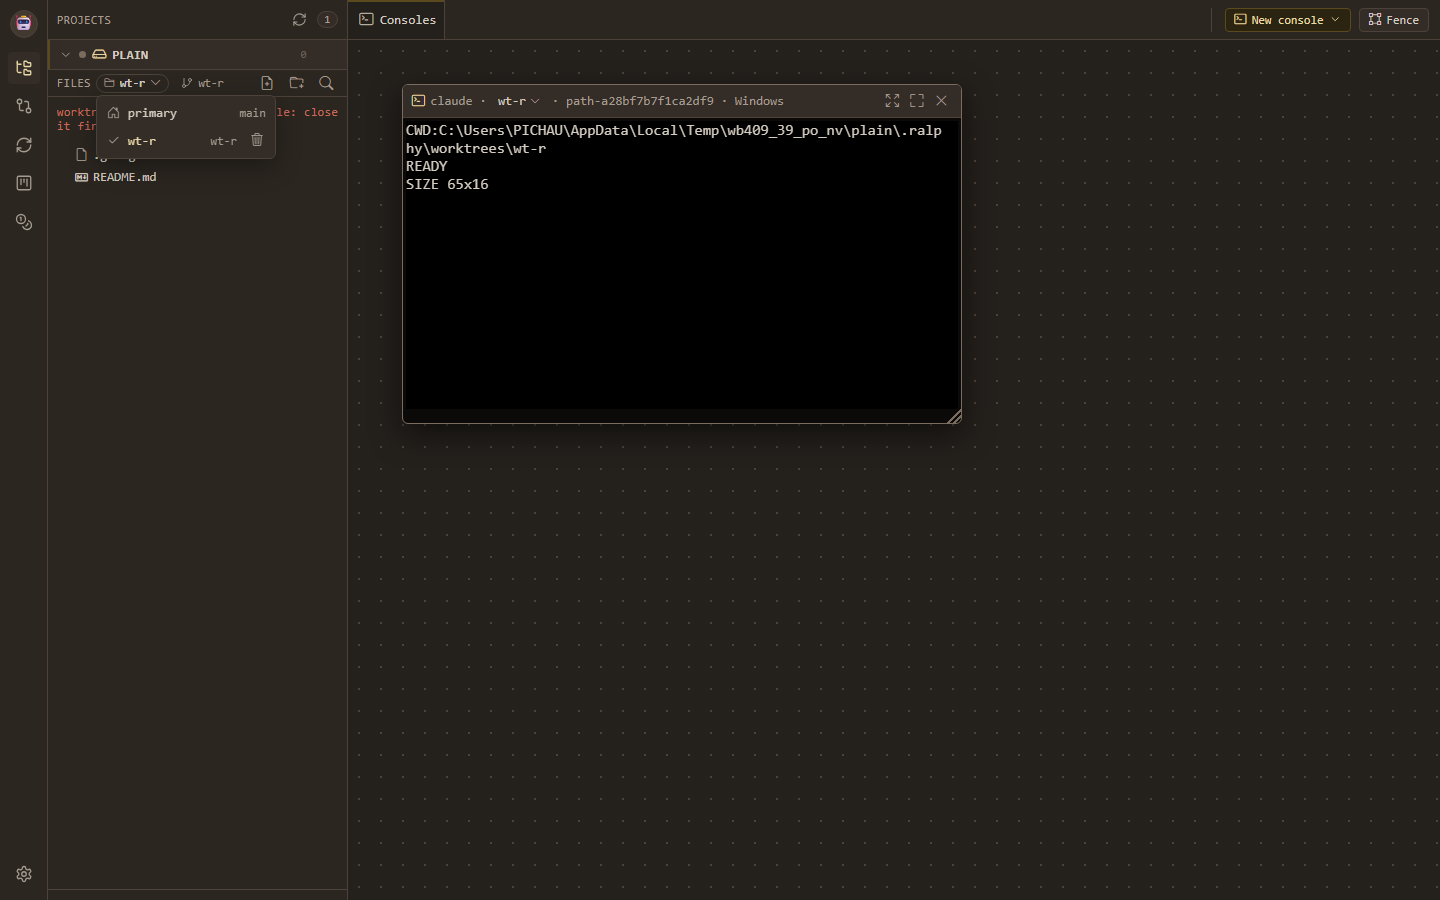
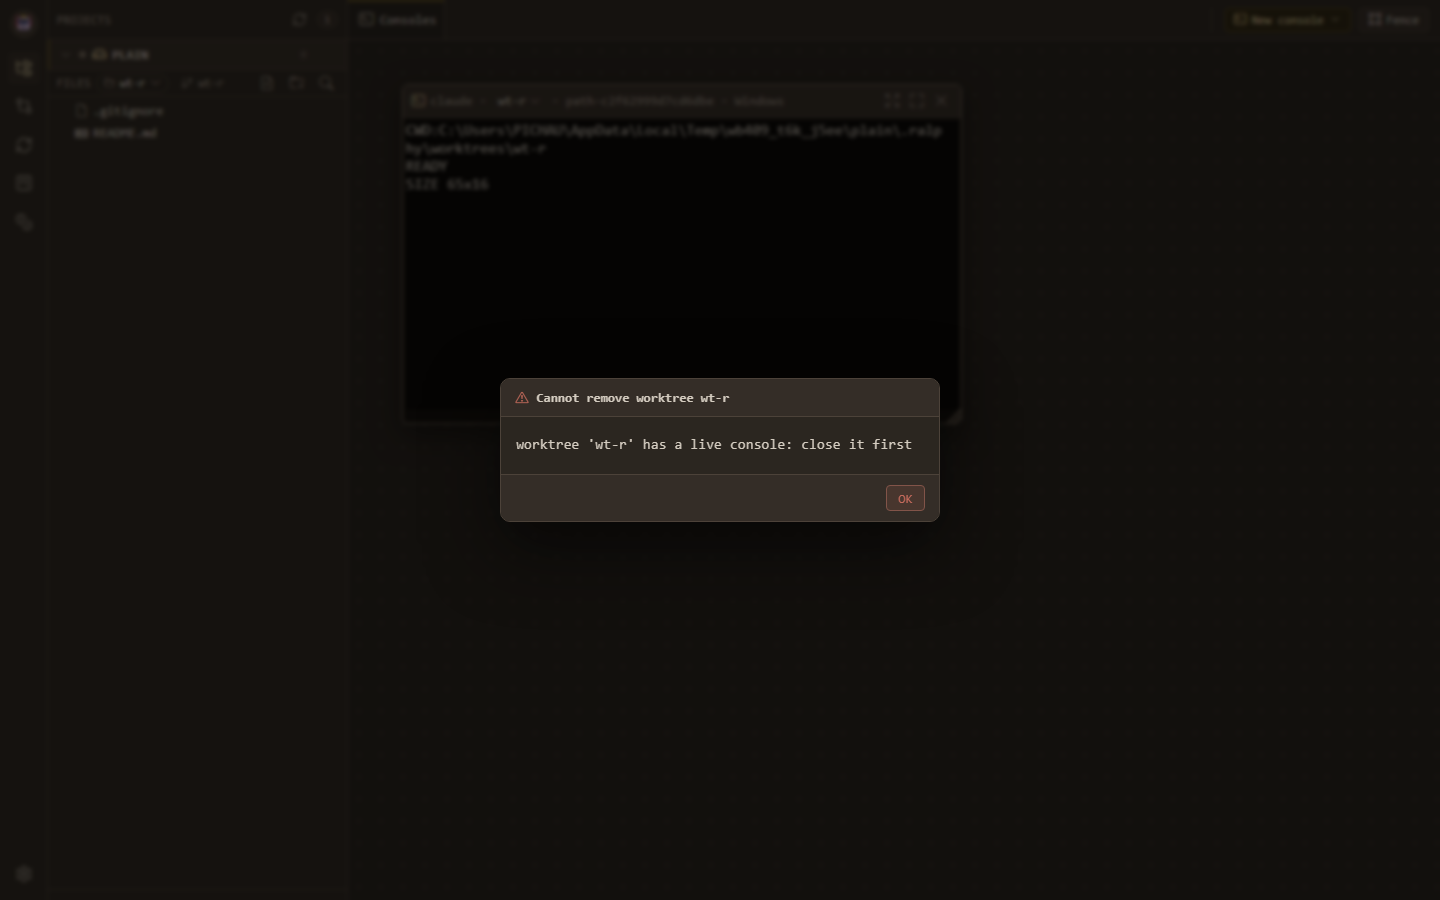
fix(workbench): a refused worktree remove is a one-button notice, not a line under the chip
The trash lives in a menu that has already closed by the time the daemon
answers; an inline refusal under the Files chip belonged to nothing and had
no way to be dismissed. `WBConsole.askNotice` (askConfirm's one-button
form: OK, focused) carries the verb's message verbatim; branch acts keep
their inline line, which sits under a modal still open (#199).

diff --git a/crates/ralphy-daemon/assets/ui/wb-console.js b/crates/ralphy-daemon/assets/ui/wb-console.js
@@ -86,7 +86,9 @@ window.WBConsole = (function () {
   // candidate and is worse than either: it blocks the thread, and an automated
   // browser dismisses it by default, which would silently turn every guarded
   // click into a cancelled one.
-  function askConfirm({ title, message, confirmLabel = "Confirm", danger = false }) {
+  // `notice: true` is the one-button form — a refusal to acknowledge, not a
+  // choice to make: OK alone, focused, and Enter/Escape both dismiss.
+  function askConfirm({ title, message, confirmLabel = "Confirm", danger = false, notice = false }) {
     const scrim = document.createElement("div");
     scrim.className = "modal-scrim wb-confirm";
     const modal = document.createElement("div");
@@ -116,14 +118,17 @@ window.WBConsole = (function () {
     go.className = danger ? "btn danger" : "btn accent";
     go.type = "button";
     go.textContent = confirmLabel;
-    foot.append(cancel, go);
+    if (notice) foot.append(go);
+    else foot.append(cancel, go);
     modal.append(head, body, foot);
     scrim.append(modal);
     document.body.append(scrim);
     // CANCEL is what the keyboard lands on. The dialog exists because a click
     // went somewhere it did not mean to; opening it with the destructive button
-    // under a stray Enter would reproduce the defect one keystroke later.
-    cancel.focus();
+    // under a stray Enter would reproduce the defect one keystroke later. A
+    // notice has nothing to protect: OK takes the focus.
+    if (notice) go.focus();
+    else cancel.focus();
 
     return new Promise((resolve) => {
       let settled = false;
@@ -152,6 +157,11 @@ window.WBConsole = (function () {
       cancel.addEventListener("click", () => done(false));
       go.addEventListener("click", () => done(true));
     });
+  }
+
+  // A message with an OK and nothing else (a verb's refusal, verbatim).
+  function askNotice({ title, message, danger = true }) {
+    return askConfirm({ title, message, confirmLabel: "OK", danger, notice: true });
   }
 
   // ---- the desk layout ---------------------------------------------------------
@@ -5673,6 +5683,7 @@ window.WBConsole = (function () {
     checkoutMenu,
     checkoutMenuRows,
     ensureListing,
+    askNotice,
     whenDeskLoaded,
     fenceSpawnRect,
     nextFenceSlot,

diff --git a/crates/ralphy-daemon/assets/ui/app.js b/crates/ralphy-daemon/assets/ui/app.js
@@ -1515,21 +1515,24 @@ function shell() {
     // the truth on every path — a `branch kept` reply is an error whose
     // directory is gone; a refusal keeps the row — so the selection resets
     // from the re-read (`checkoutAfterListing`), never from the reply's
-    // status. Each gate's message lands verbatim through `_branchRefused`.
+    // status. Each gate's message lands verbatim in a notice with one OK:
+    // the menu it came from has closed, so an inline line under the chip
+    // would sit with no act to belong to and no way to dismiss it.
     async removeWorktree(slug, w) {
       if (!slug || !w || w.primary || this.worktreeRemoving[slug]) return;
       this.worktreeRemoving = { ...this.worktreeRemoving, [slug]: w.name };
-      this.branchError = "";
+      const refused = (message) =>
+        window.WBConsole.askNotice({ title: `Cannot remove worktree ${w.name}`, message });
       try {
         const reply = await window.WBDaemon.observe("worktree.remove", { repo: slug, name: w.name });
         if (window.WBFail.isError(reply)) {
-          this._branchRefused(window.WBFail.message(reply, "worktree remove refused"));
+          refused(window.WBFail.message(reply, "worktree remove refused"));
         } else {
           this._flashAction(`worktree ${w.name} removed`);
         }
       } catch {
         if (window.WBMode.isDaemon()) {
-          this._branchRefused("Could not reach the daemon. Check whether the worktree was removed.");
+          refused("Could not reach the daemon. Check whether the worktree was removed.");
         }
       } finally {
         await this.ensureWorktreeListing(slug, true);

diff --git a/crates/ralphy-daemon/tests/wb_worktree_409.py b/crates/ralphy-daemon/tests/wb_worktree_409.py
@@ -19,9 +19,9 @@ Scenario 2  create `wt-r` from the picker → rows primary + wt-r, directory exi
 Scenario 3  select `wt-r`
 Scenario 4  `newConsole('claude')` titled `claude · wt-r · <slug> · <env>`,
             the child's `CWD:` inside `.ralphy/worktrees/wt-r`
-Scenario 5  remove refused: `has a live console` — message shown in the modal,
-            rows still 2, directory stays, one session row, selection kept,
-            modal stays; screenshot HERE
+Scenario 5  remove refused: `has a live console` — a notice with ONE button
+            (OK), rows still 2, directory stays, one session row, selection
+            kept; screenshot HERE
 Scenario 6  close the console → `/api/sessions` empty
 Scenario 7  dirty refusal: `has uncommitted changes`, rows 2, directory stays
 Scenario 8  locked refusal: `is locked`
@@ -198,11 +198,14 @@ CHIP_TEXT = (
 # Every console window's title, trimmed.
 TITLES = "() => [...document.querySelectorAll('.session-title')].map(e => e.textContent.trim())"
 WINDOWS = "() => document.querySelectorAll('.session-window').length"
-# The refusal as the Projects panel renders it under the chip (a laid-out
-# `.files-error.branch-error`; the picker has no copy of it any more).
-SHOWN_ERROR = (
-    "() => { const e = document.querySelector('li.project.open .files-error.branch-error');"
-    "  return e && e.offsetParent !== null && e.clientWidth > 0 ? e.textContent.trim() : null; }"
+# The refusal as a one-button notice (`askNotice`): its body, and whether the
+# foot has exactly ONE button reading OK.
+NOTICE = ".wb-confirm .confirm-modal"
+NOTICE_STATE = (
+    "() => { const m = document.querySelector('.wb-confirm .confirm-modal'); if (!m) return null;"
+    "  const btns = [...m.querySelectorAll('.modal-foot button')].map(b => b.textContent.trim());"
+    "  return { title: m.querySelector('.modal-title').textContent.trim(),"
+    "    body: m.querySelector('.confirm-body').textContent.trim(), buttons: btns }; }"
 )
 
 
@@ -324,10 +327,14 @@ def wait_settled(page):
 
 
 def refusal(page):
-    """Wait for `branchError` to land AND the re-read to settle."""
-    page.wait_for_function(f"() => {SH}.branchError !== ''", timeout=15000)
+    """Wait for the notice, read it, dismiss it with its one OK, and let the
+    re-read settle. `err` is the body; `buttons` what the foot offered."""
+    page.wait_for_function(f"() => !!({NOTICE_STATE})()", timeout=15000)
+    st = page.evaluate(NOTICE_STATE)
+    page.locator(NOTICE + " .modal-foot button").click()
+    page.wait_for_function(f"() => !({NOTICE_STATE})()", timeout=5000)
     wait_settled(page)
-    return {"err": page.evaluate(f"() => {SH}.branchError"), "shown": page.evaluate(SHOWN_ERROR)}
+    return {"err": st["body"], "title": st["title"], "buttons": st["buttons"]}
 
 
 def add_worktree(page, fixture, slug, name):
@@ -446,17 +453,18 @@ def main():
 
             # --- scenario 5: refused while the console lives ---------------------
             click_remove(page, "wt-r", slug)
+            # The notice, on screen, is the screenshot: the refusal as the
+            # operator meets it.
+            page.wait_for_function(f"() => !!({NOTICE_STATE})()", timeout=15000)
+            page.screenshot(path=os.path.join(SHOT_DIR, SHOT))
             r = refusal(page)
             check("remove is refused with `has a live console`", "has a live console" in (r["err"] or ""), f"got={r['err']!r}")
-            check("the refusal is rendered under the chip, verbatim", r["shown"] == (r["err"] or "").strip(), f"got={r!r}")
+            check("the refusal is a notice with ONE button, OK, titled for the worktree", r["buttons"] == ["OK"] and r["title"] == "Cannot remove worktree wt-r", f"got={r!r}")
             rows = chip_rows(page, slug)
             check("the row stays (primary + wt-r)", [x["name"] for x in rows] == ["primary", "wt-r"], f"got={rows!r}")
             check("the directory stays", wt.is_dir())
             check("/api/sessions still has one row", len(sessions()) == 1, f"rows={sessions()!r}")
             check("a refusal keeps the selection", page.evaluate(f"(s) => {SH}.checkoutOf(s) === 'wt-r'", arg=slug))
-            open_chip(page, slug)
-            page.screenshot(path=os.path.join(SHOT_DIR, SHOT))
-            close_chip(page)
             check("screenshot written", os.path.exists(os.path.join(SHOT_DIR, SHOT)))
 
             # --- scenario 6: close the console -----------------------------------
@@ -469,7 +477,6 @@ def main():
             # --- scenario 7: dirty refusal ---------------------------------------
             scratch = wt / "scratch.txt"
             scratch.write_bytes(b"dirty\n")
-            page.evaluate(f"() => {{ {SH}.branchError = ''; }}")
             click_remove(page, "wt-r", slug)
             r = refusal(page)
             check("a dirty worktree is refused with `has uncommitted changes`", "has uncommitted changes" in (r["err"] or ""), f"got={r['err']!r}")
@@ -480,7 +487,6 @@ def main():
             # --- scenario 8: locked refusal --------------------------------------
             os.remove(scratch)
             git(fixture, "worktree", "lock", "--reason", "held", ".ralphy/worktrees/wt-r")
-            page.evaluate(f"() => {{ {SH}.branchError = ''; }}")
             click_remove(page, "wt-r", slug)
             r = refusal(page)
             check("a locked worktree is refused with `is locked`", "is locked" in (r["err"] or ""), f"got={r['err']!r}")
@@ -491,7 +497,6 @@ def main():
             (wt / "feature.txt").write_bytes(b"x\n")
             git(wt, "add", "-A")
             git(wt, "commit", "-m", "beyond")
-            page.evaluate(f"() => {{ {SH}.branchError = ''; }}")
             click_remove(page, "wt-r", slug)
             r = refusal(page)
             check("the reply says `branch 'wt-r' kept`", "branch 'wt-r' kept" in (r["err"] or ""), f"got={r['err']!r}")
@@ -511,7 +516,7 @@ def main():
             click_remove(page, "wt-s", slug)
             page.wait_for_function(WORKTREE_COUNT_IS, arg=0, timeout=15000)
             wait_settled(page)
-            check("a clean remove sets no error", page.evaluate(f"() => {SH}.branchError === ''"), f"got={page.evaluate(f'() => {SH}.branchError')!r}")
+            check("a clean remove opens no notice", page.evaluate(f"() => !({NOTICE_STATE})()"))
             page.wait_for_function(f"(s) => {SH}.checkoutOf(s) === null", arg=slug, timeout=10000)
             check("the selection reset to primary", True)
             check("the wt-s directory is gone", not wt_s.exists())

diff --git a/crates/ralphy-daemon/src/lib.rs b/crates/ralphy-daemon/src/lib.rs
@@ -11688,8 +11688,8 @@ mod tests {
         // act is SENT with the checkout.
         assert_eq!(
             app_js.matches("_branchRefused(").count(),
-            5,
-            "the refusal arm and the daemon-mode throw arm of `_mutateBranch` and `removeWorktree`, and the helper itself (a worktree CREATE reports into the console's own prompt — ADR-0063 amendment 2026-09-16 b)"
+            3,
+            "the refusal arm and the daemon-mode throw arm of `_mutateBranch`, and the helper itself (a worktree CREATE reports into the console's own prompt, a REMOVE into a one-button notice — ADR-0063 amendment 2026-09-16 b)"
         );
         assert!(
             app_js.contains("WBDaemon.withCheckout({ repo: slug, name }, this.checkoutOf(slug))"),
@@ -11714,7 +11714,9 @@ mod tests {
             "an unanswered worktree create must not read as a completed one"
         );
         assert!(
-            app_js.contains(r#"_branchRefused("Could not reach the daemon. Check whether the worktree was removed.")"#),
+            app_js.contains(
+                r#"refused("Could not reach the daemon. Check whether the worktree was removed.")"#
+            ),
             "an unanswered worktree remove must not read as a completed one"
         );
         // The revert is on the REFUSAL arm only: a throw may have landed, and

diff --git a/docs/adr/0063-a-worktree-is-a-console-workspace.md b/docs/adr/0063-a-worktree-is-a-console-workspace.md
@@ -388,7 +388,8 @@ What replaces them:
   worktree. Its menu is the console switcher's — one builder,
   `WBConsole.checkoutMenu`: rows with the agent's state dot (ADR-0059),
   dirt, and the remove action (#409, with its gates and the listing-driven
-  selection reset). A pick sets the #406 selection — Files, Changes, diff,
+  selection reset; a refusal is a one-button notice — the menu it came from
+  has closed, so an inline line would belong to nothing). A pick sets the #406 selection — Files, Changes, diff,
   Find, the branch chip — and nothing else. The branch chip beside it shows
   the tree's branch alone; its tooltip keeps `branch · worktree`.
 - **Moving a live console ends its session first** (`/api/sessions/close`,
